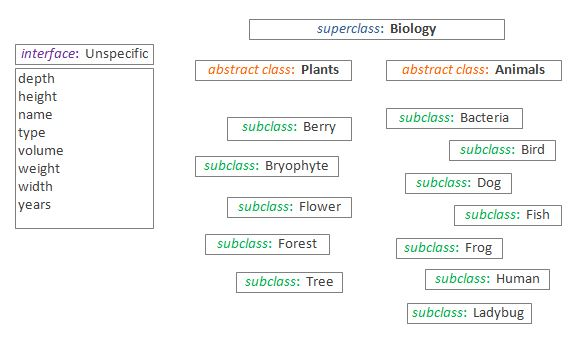
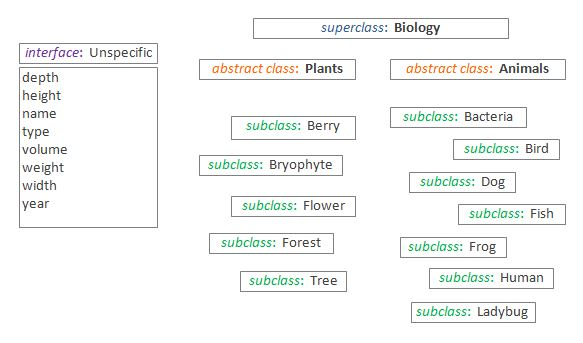
update

diff --git a/README.md b/README.md
@@ -126,13 +126,26 @@ Looking at the picture’s subclass "**Bird**". It can inherit from the two abst
 
 To narrow it down a bit. If the program is well written, there will be no logical reason why Bird should use the abstract class: "Plants". And likewise, both the superclass and the abstract class will not repeat the members that already exist in the interface: “Unspecific”. Instread, the interface will be implemented.
 
-Checking the subclass "**Forest**" instead. It will in the same manner inherit (`extend`) from its abstract class "Plants" and its superclass "Biology". And finally. The interface's members should preferably be so common, that they can be used in every class. In this way these members don't have to be repeated in any other class in the program.  
+Checking the subclass "**Forest**" instead. It will in the same manner inherit (`extends`) from its abstract class "Plants" and its superclass "Biology". And finally. The interface's members should preferably be so common, that they can be used in every class. In this way these members don't have to be repeated in any other class in the program.  
 
 <br>
 
-#### the Bryophyte, the Human and the Berry
+#### the bryophyte, the human and the berry
 
-Test for example: Ladybug, Frog, Bryophyte, Human and Berry.
+Lest test the similarities between a bryophyte a human and a berry, accordingly to the picture's interface.
+
+They are all included in the superclass "**Biology**", as they are living creatures. And everyone will also inherit from the abstract "**Plants**" or "**Animals**". Along with that they all have a depth, height, name, type, volume, weight, width and year (the interface) together. 
+
+So a berry can use all the interface's members, just as a human, or a bryophyte. The superclass can `implements` the interface "**Unspecific**". The next  
+
+
+a Ladybug, a Frog and a Flower. 
+
+<br>
+
+#### overriding and overloading
+
+text... 
 
 <br>
 <br>
